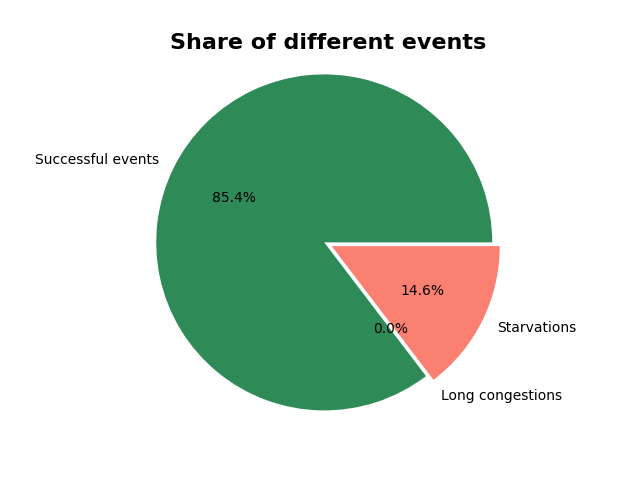
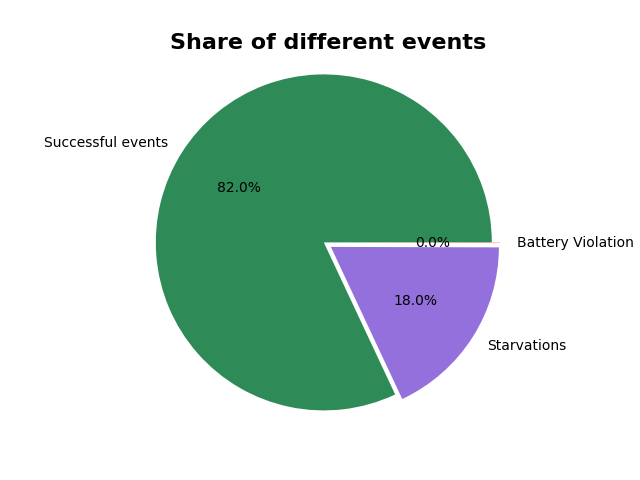
added right visualization to include battery violations and types of starvation

diff --git a/policies/hlm/manage_results.py b/policies/hlm/manage_results.py
@@ -116,11 +116,11 @@ class VisualizeResults():
             plt.show()
 
 def write_sim_results_to_file(filename, simulator, duration, append=False):
-    header = ['Duration','Events','Starvations','Roaming for bikes',  'Long congestions', 'Short congestions', 'Roaming distance for bikes','Roaming distance for locks', 'Seed']
+    header = ['Duration','Events','Starvations','No scooters',  'No battery', 'Battery Violation', 'Roaming for bikes', 'Roaming distance for bikes', 'Seed']
     data=[duration, simulator.metrics.get_aggregate_value('events'), simulator.metrics.get_aggregate_value('starvation'), 
-          simulator.metrics.get_aggregate_value('roaming for bikes'), simulator.metrics.get_aggregate_value('long_congestion'), 
-          simulator.metrics.get_aggregate_value('short_congestion'), round(simulator.metrics.get_aggregate_value('roaming distance for bikes'),2), 
-          round(simulator.metrics.get_aggregate_value('roaming distance for locks'),2), simulator.state.seed]
+          simulator.metrics.get_aggregate_value('starvations, no bikes'), simulator.metrics.get_aggregate_value('starvations, no battery'), 
+          simulator.metrics.get_aggregate_value('battery violation'), simulator.metrics.get_aggregate_value('roaming for bikes'),
+          round(simulator.metrics.get_aggregate_value('roaming distance for bikes'),2), simulator.state.seed]
     try:
         path= './policies/hlm/simulation_results/'+filename
         if append==False:
@@ -150,19 +150,20 @@ def write_sol_time_to_file(filename, simulator):
 
 def write_sim_results_to_list(simulator, duration):
     data=[duration, simulator.metrics.get_aggregate_value('events'), simulator.metrics.get_aggregate_value('starvation'), 
-          simulator.metrics.get_aggregate_value('roaming for bikes'), simulator.metrics.get_aggregate_value('long_congestion'), 
-          simulator.metrics.get_aggregate_value('short_congestion'), round(simulator.metrics.get_aggregate_value('roaming distance for bikes'),2), 
-          round(simulator.metrics.get_aggregate_value('roaming distance for locks'),2), simulator.state.seed]
+          simulator.metrics.get_aggregate_value('starvations, no bikes'), simulator.metrics.get_aggregate_value('starvations, no battery'),
+          simulator.metrics.get_aggregate_value('battery violation'), simulator.metrics.get_aggregate_value('roaming for bikes'),
+          round(simulator.metrics.get_aggregate_value('roaming distance for bikes'),2), simulator.state.seed]
     return data
 
 def visualize_aggregated_violations_and_roaming(aggregated_data, filename):
     data = {'Starvations':aggregated_data['starvation'],
-            'Long congestions':aggregated_data['long congestion'],
-            'Short congestions':aggregated_data['short congestion'],
-            'Roaming for bikes':aggregated_data['roaming for bikes']}
+            'No scooters':aggregated_data['starvations, no bikes'],
+            'No battery':aggregated_data['starvations, no battery'],
+            'Battery Violation':aggregated_data['battery violation'],
+            'Roaming':aggregated_data['roaming for bikes']}
     type_of_event = list(data.keys())
     values = list(data.values())
-    colors = ['salmon', 'mediumpurple', 'cornflowerblue', 'green']
+    colors = ['salmon', 'mediumpurple', 'cornflowerblue', 'red', 'green']
     fig, ax = plt.subplots()
     ax.grid(visible = True, axis = 'y', color ='grey', linestyle ='-.', linewidth = 0.5, alpha = 0.4, zorder = 1)
     plt.bar(type_of_event, values, width=0.4, color = colors, alpha = 1, zorder = 2)
@@ -171,14 +172,15 @@ def visualize_aggregated_violations_and_roaming(aggregated_data, filename):
     for i in range(len(values)):
         plt.annotate(str(values[i]), xy=(type_of_event[i],values[i]), ha='center', va='bottom')
     outfile=filename[:-4]+".png"
-    plt.savefig('./policies/hlm/simulation_results/aggr_violations_and_roaming_'+outfile)
+    plt.savefig('./policies/hlm/simulation_results/test/aggr_violations_and_roaming_'+outfile)
     
 def visualize_aggregated_total_roaming_distances(aggregated_data, filename):
-    data = {'Roaming for locks':aggregated_data['roaming distance for locks'],
+    data = {# 'Roaming for locks':aggregated_data['roaming distance for locks'],
             'Roaming for bikes':aggregated_data['roaming distance for bikes']}
     type_of_roaming = list(data.keys())
     values = list(data.values())
-    colors = ['mediumpurple', 'cornflowerblue']
+    colors = [#'mediumpurple', 
+        'cornflowerblue']
     fig, ax = plt.subplots()
     ax.grid(visible = True, axis = 'y', color ='grey', linestyle ='-.', linewidth = 0.5, alpha = 0.4, zorder = 1)
     plt.bar(type_of_roaming, values, width=0.4, color = colors, alpha = 1, zorder = 2)
@@ -188,7 +190,7 @@ def visualize_aggregated_total_roaming_distances(aggregated_data, filename):
     for i in range(len(values)):
         plt.annotate(str(round(values[i], 2)), xy=(type_of_roaming[i],values[i]), ha='center', va='bottom')
     outfile=filename[:-4]+".png"
-    plt.savefig('./policies/hlm/simulation_results/aggr_total_roaming_distances_'+outfile)
+    plt.savefig('./policies/hlm/simulation_results/test/aggr_total_roaming_distances_'+outfile)
 
 def visualize_aggregated_average_roaming_distances(aggregated_data, filename):
     long_congestions = aggregated_data['long congestion']
@@ -218,16 +220,16 @@ def visualize_aggregated_average_roaming_distances(aggregated_data, filename):
     for i in range(len(values)):
         plt.annotate(str(round(values[i], 2)), xy=(type_of_roaming[i],values[i]), ha='center', va='bottom')
     outfile=filename[:-4]+".png"
-    plt.savefig('./policies/hlm/simulation_results/aggr_average_roaming_distances_'+outfile)
+    plt.savefig('./policies/hlm/simulation_results/test/aggr_average_roaming_distances_'+outfile)
 
 def visualize_aggregated_share_of_events(aggregated_data, filename):
     tot_events = aggregated_data['events']
-    long_congestions = aggregated_data['long congestion']
     starvations = aggregated_data['starvation']
-    roaming_for_bikes = aggregated_data['roaming for bikes']
-    tot_successful = tot_events - long_congestions - starvations
-    data = {'Successful events':tot_successful/tot_events, 'Long congestions':long_congestions/tot_events,
-            'Starvations':starvations/tot_events}
+    battery_violation = aggregated_data['battery violation']
+    tot_successful = tot_events - starvations - battery_violation
+    data = {'Successful events':tot_successful/tot_events,
+            'Starvations':starvations/tot_events,
+            'Battery Violation': battery_violation/tot_events}
     colors = ['seagreen', 'mediumpurple', 'salmon']
     explode = (0, 0.05, 0.05)
     labels = list(data.keys())
@@ -237,7 +239,7 @@ def visualize_aggregated_share_of_events(aggregated_data, filename):
     ax.pie(values, labels=labels, explode=explode, autopct='%1.1f%%', colors=colors)
     ax.axis('equal')
     outfile=filename[:-4]+".png"
-    plt.savefig('./policies/hlm/simulation_results/aggr_share_of_events_'+outfile)
+    plt.savefig('./policies/hlm/simulation_results/test/aggr_share_of_events_'+outfile)
 
 
 def visualize_aggregated_results(filename):
@@ -245,18 +247,18 @@ def visualize_aggregated_results(filename):
             path = './policies/hlm/simulation_results/'+filename
             with open(path, 'r', newline='') as f:
                 reader = csv.reader(f, delimiter=',')
-                aggregated_data = {'events':0, 'starvation':0, 'roaming for bikes':0,'long congestion':0, 'short congestion':0,  'roaming distance for bikes':0, 'roaming distance for locks':0} 
+                aggregated_data = {'events':0, 'starvation':0, 'starvations, no bikes':0,'starvations, no battery':0, 'battery violation': 0, 'roaming for bikes':0, 'roaming distance for bikes':0} 
                 for col in reader:
                     aggregated_data['events'] += int(col[1])
                     aggregated_data['starvation'] += int(col[2])
-                    aggregated_data['roaming for bikes'] += int(col[3])
-                    aggregated_data['long congestion'] += int(col[4])
-                    aggregated_data['short congestion'] += int(col[5])
-                    aggregated_data['roaming distance for bikes'] += float(col[6])
-                    aggregated_data['roaming distance for locks'] += float(col[7])
+                    aggregated_data['starvations, no bikes'] += int(col[3])
+                    aggregated_data['starvations, no battery'] += int(col[4])
+                    aggregated_data['battery violation'] += int(col[5])
+                    aggregated_data['roaming for bikes'] += float(col[6])
+                    aggregated_data['roaming distance for bikes'] += float(col[7])
             visualize_aggregated_violations_and_roaming(aggregated_data, filename)
             visualize_aggregated_total_roaming_distances(aggregated_data, filename)
-            visualize_aggregated_average_roaming_distances(aggregated_data, filename)
+            # visualize_aggregated_average_roaming_distances(aggregated_data, filename)
             visualize_aggregated_share_of_events(aggregated_data, filename)
         
         except:

diff --git a/policies/hlm/run_simulations.py b/policies/hlm/run_simulations.py
@@ -18,7 +18,7 @@ from helpers import timeInMinutes
 import time
 import multiprocessing as mp
 
-def run_simulation(seed, policy, duration=24*1, num_vehicles=2, queue=None, INSTANCE=None):
+def run_simulation(seed, policy, duration=24*5, num_vehicles=2, queue=None, INSTANCE=None):
 
     #change common parameters for the different simulations here:
     START_TIME = timeInMinutes(hours=7)
@@ -128,28 +128,28 @@ def test_instances(list_of_seeds, list_of_instances):
 
 def test_seeds_mp(list_of_seeds, policy, filename, num_vehicles=1, duration=24*5, instance=None): #change duration and number of vehicles HERE!
     #------------PROCESS----------------
-    seeds = list_of_seeds
-    q = mp.Queue()
-    processes = []
-    returned_simulators = []
+    # seeds = list_of_seeds
+    # q = mp.Queue()
+    # processes = []
+    # returned_simulators = []
 
-    for seed in seeds:
-        process = mp.Process(target=run_simulation, args = (seed, policy, duration, num_vehicles, q, instance))
-        processes.append(process)
-        process.start()
-    for process in processes:
-        ret = q.get()   #will block
-        returned_simulators.append(ret)
-    for process in processes:
-        process.join()
-    for simulator in returned_simulators:
-        policies.hlm.manage_results.write_sim_results_to_file(filename, simulator, duration, append=True)
-        # if we run PILOT policy:
-        filename_time = "sol_time_"+filename
-        policies.hlm.manage_results.write_sol_time_to_file(filename_time, simulator)
-        # output.write_csv(simulator,'./policies/hlm/simulation_results/different_policies/'+filename, hourly = False)
-        for branch in range(policy.number_of_successors):
-            print(f"Branch {branch+1}: {simulator.metrics.get_aggregate_value('branch'+str(branch+1))}")
+    # for seed in seeds:
+    #     process = mp.Process(target=run_simulation, args = (seed, policy, duration, num_vehicles, q, instance))
+    #     processes.append(process)
+    #     process.start()
+    # for process in processes:
+    #     ret = q.get()   #will block
+    #     returned_simulators.append(ret)
+    # for process in processes:
+    #     process.join()
+    # for simulator in returned_simulators:
+    #     policies.hlm.manage_results.write_sim_results_to_file(filename, simulator, duration, append=True)
+    #     # if we run PILOT policy:
+    #     filename_time = "sol_time_"+filename
+    #     policies.hlm.manage_results.write_sol_time_to_file(filename_time, simulator)
+    #     # output.write_csv(simulator,'./policies/hlm/simulation_results/different_policies/'+filename, hourly = False)
+    #     for branch in range(policy.number_of_successors):
+    #         print(f"Branch {branch+1}: {simulator.metrics.get_aggregate_value('branch'+str(branch+1))}")
     policies.hlm.manage_results.visualize_aggregated_results(filename)
 
 

diff --git a/policies/hlm/hlm_BS_PILOT_policy.py b/policies/hlm/hlm_BS_PILOT_policy.py
@@ -104,7 +104,7 @@ class BS_PILOT(Policy): #Add default values from seperate setting sheme
         similary_imbalances_overflow = 0
 
         for neighbor in simul.state.stations[next_station].neighboring_stations:
-            if neighbor.number_of_bikes() - len(neighbor.get_swappable_bikes(20)) > 1.1 * neighbor.get_target_state(simul.day(),simul.hour()) and number_of_escooters_pickup > 0:
+            if neighbor.number_of_bikes() - len(neighbor.get_swappable_bikes(20)) > 1.9 * neighbor.get_target_state(simul.day(),simul.hour()) and number_of_escooters_pickup > 0:
                 similary_imbalances_overflow += 1
             elif neighbor.number_of_bikes() - len(neighbor.get_swappable_bikes(20)) < 0.1 * neighbor.get_target_state(simul.day(),simul.hour()) and number_of_escooters_deliver > 0:
                 similary_imbalances_starved += 1
@@ -241,7 +241,7 @@ class BS_PILOT(Policy): #Add default values from seperate setting sheme
             neighbor_target_state = round(neighbor.get_target_state(simul.day(), simul.hour()))
             if num_escooters_neighbor < 0.1 * neighbor_target_state:
              starved_neighbors += 1
-            elif num_escooters_neighbor > 1.1 * neighbor_target_state:
+            elif num_escooters_neighbor > 1.9 * neighbor_target_state:
              overflowing_neighbors += 1
 
         if num_escooters_station_at_arrival_accounted_battery_swap < target_state:
@@ -587,7 +587,7 @@ def calculate_loading_quantities_and_swaps_greedy(vehicle, simul, station):
         neighbor_target_state = round(neighbor.get_target_state(simul.day(), simul.hour()))
         if num_escooters_neighbor < 0.1 * neighbor_target_state:
             starved_neighbors += 1
-        elif num_escooters_neighbor > 1.1 * neighbor_target_state:
+        elif num_escooters_neighbor > 1.9 * neighbor_target_state:
             overflowing_neighbors += 1
 
     #######################################################################

diff --git a/sim/events/BikeDeparture.py b/sim/events/BikeDeparture.py
@@ -123,6 +123,13 @@ class BikeDeparture(Event):
                     world.metrics.add_aggregate_metric(world, "roaming distance for bikes", distance)
 
                 else:
+                    if departure_station.number_of_bikes() <= 0:
+                        departure_station.metrics.add_aggregate_metric(world, "starvations, no bikes", 1) 
+                        world.metrics.add_aggregate_metric(world, "starvations, no bikes", 1)
+                    else:
+                        departure_station.metrics.add_aggregate_metric(world, "starvations, no battery", 1) 
+                        world.metrics.add_aggregate_metric(world, "starvations, no battery", 1)
+
                     world.metrics.add_aggregate_metric(world, "events", 1) #only one starvation --> lost demand and no arrival
                     departure_station.metrics.add_aggregate_metric(world, "starvation", 1) 
                     world.metrics.add_aggregate_metric(world, "starvation", 1)

diff --git a/sim/events/BikeArrival.py b/sim/events/BikeArrival.py
@@ -39,6 +39,13 @@ class BikeArrival(Event):
         if self.bike is not None:
             self.bike.travel(world, self.travel_time, self.congested)
 
+            if self.bike.battery < 0:
+                arrival_station.metrics.add_aggregate_metric(world, "battery violation", 1)
+                world.metrics.add_aggregate_metric(world, "battery violation", 1)
+                arrival_station.metrics.add_aggregate_metric(world, "Failed events", 1)
+                world.metrics.add_aggregate_metric(world, "Failed events", 1)
+                self.bike.battery = 0
+
             # add bike to the arrived station (location is changed in add_bike method)
             if arrival_station.add_bike(self.bike):
                 if FULL_TRIP:

diff --git a/settings.py b/settings.py
@@ -16,7 +16,7 @@ SERVICE_TIME_TO = 20  #20=20:00
 
 BATTERY_LIMIT = 20.0
 BIKE_SPEED = 7 # default, normally calculated from input data
-BATTERY_CHANGE_PER_MINUTE = 0.75
+BATTERY_CHANGE_PER_MINUTE = 0.2
 
 # Depot settings
 
